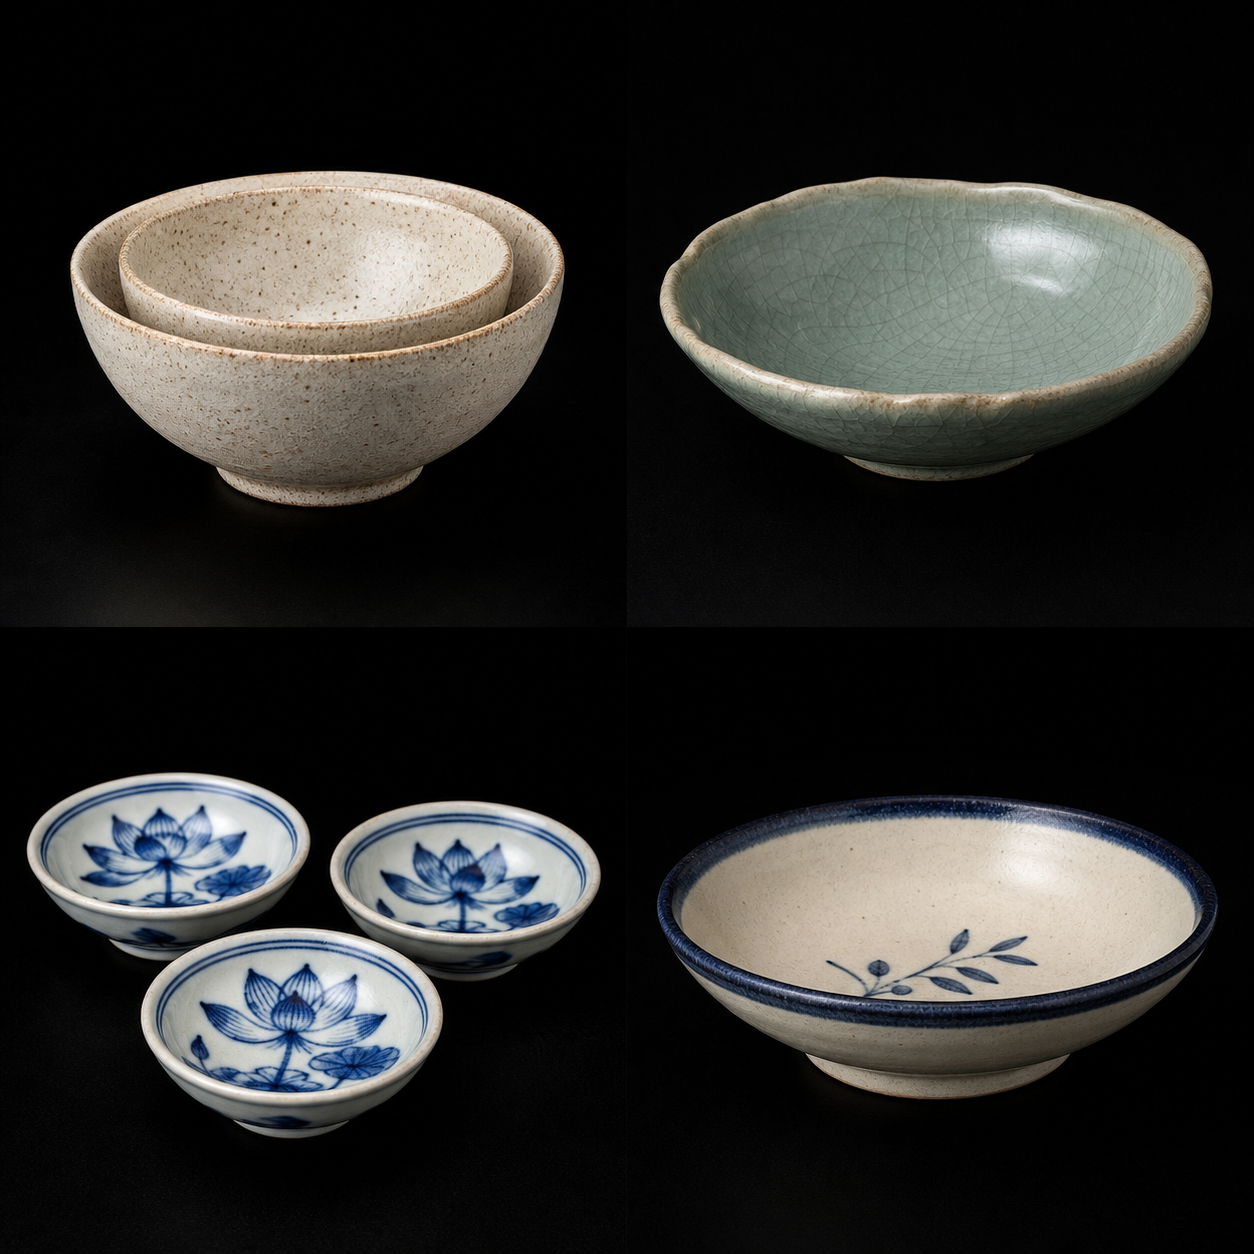
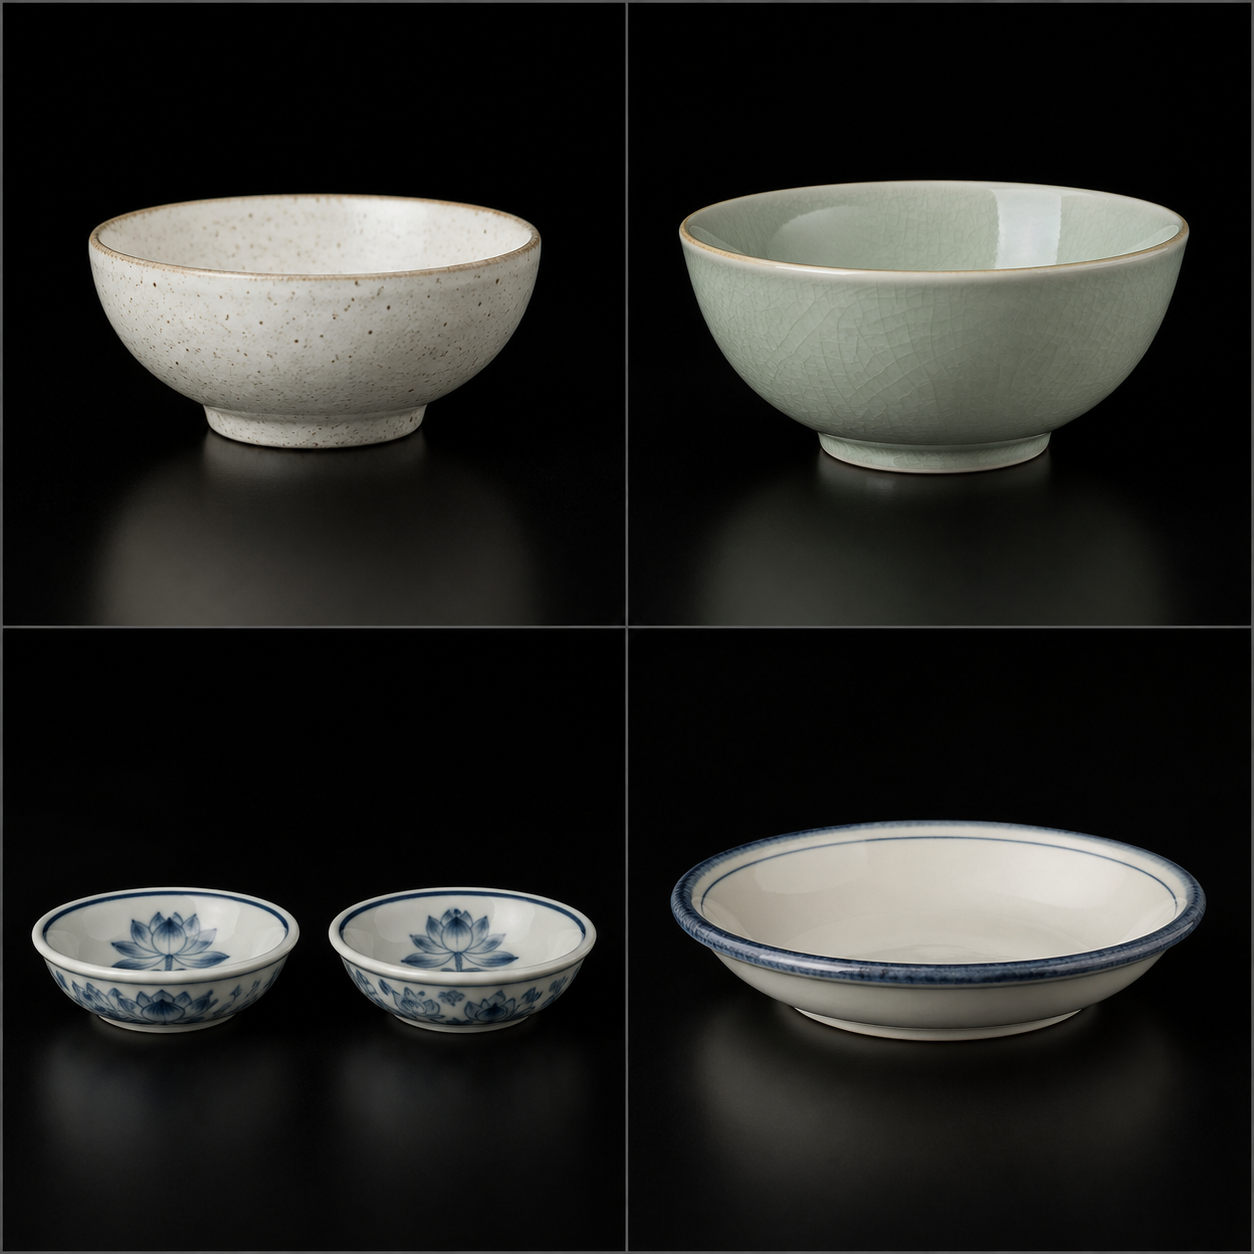
Refine catalog grid and ceramic renders

diff --git a/app/globals.css b/app/globals.css
@@ -1281,14 +1281,13 @@ button { color: inherit; }
 .discovery-hot-searches button:hover, .discovery-hot-searches button.active { color: var(--color-surface-cream); }
 .discovery-hot-searches button.active::after { content: ""; position: absolute; inset: auto 0 5px; height: 2px; background: var(--color-surface-cream); }
 .discovery-section { max-width: none; padding: 140px 4px 140px; }
-.discovery-section .visual-wall { display: grid; grid-template-columns: repeat(4, minmax(0, 1fr)); grid-auto-flow: dense; grid-auto-rows: clamp(156px, 17vw, 260px); gap: 5px; columns: unset; }
+.discovery-section .visual-wall { --wall-gap: 5px; --wall-columns: 4; display: grid; grid-template-columns: repeat(var(--wall-columns), minmax(0, 1fr)); grid-auto-flow: dense; grid-auto-rows: clamp(180px, calc((100vw - 8px - (var(--wall-gap) * (var(--wall-columns) - 1))) / var(--wall-columns)), 420px); gap: var(--wall-gap); columns: unset; }
 .discovery-section .visual-wall .product-card { min-width: 0; height: 100%; margin: 0; content-visibility: visible; contain-intrinsic-size: auto; }
-.visual-wall .product-card--pattern-0, .visual-wall .product-card--pattern-3, .visual-wall .product-card--pattern-5 { grid-row: span 2; }
-.visual-wall .product-card--pattern-7 { grid-row: span 2; }
+.visual-wall .product-card--pattern-0, .visual-wall .product-card--pattern-1, .visual-wall .product-card--pattern-2, .visual-wall .product-card--pattern-3, .visual-wall .product-card--pattern-4, .visual-wall .product-card--pattern-5, .visual-wall .product-card--pattern-6, .visual-wall .product-card--pattern-7 { grid-column: span 1; grid-row: span 1; }
 .discovery-section .visual-wall .product-card-link { width: 100%; height: 100%; display: block; padding: 0; overflow: hidden; color: inherit; border: 0; border-radius: 2px; background: var(--color-off-black); cursor: pointer; text-align: left; }
 .discovery-section .visual-wall .product-visual { width: 100%; height: 100%; aspect-ratio: auto; }
 .discovery-section .visual-wall .product-card-overlay { padding: 52px 22px 20px; }
-.collection-card { min-width: 0; height: 100%; grid-column: span 2; }
+.collection-card { min-width: 0; height: 100%; grid-column: span 2; grid-row: span 2; }
 .collection-card > button { position: relative; width: 100%; height: 100%; display: block; overflow: hidden; padding: 0; color: var(--color-surface-cream); border: 0; border-radius: 2px; background: var(--color-off-black); cursor: pointer; text-align: left; }
 .collection-card img { object-fit: cover; transition: transform 650ms cubic-bezier(.22,.8,.2,1), filter 300ms ease; }
 .collection-card-shade { position: absolute; inset: 0; background: linear-gradient(90deg, rgba(8,9,8,.88) 0%, rgba(8,9,8,.24) 55%, rgba(8,9,8,.08) 100%); transition: background 300ms ease; }
@@ -1300,14 +1299,15 @@ button { color: inherit; }
 .collection-card > button:hover .collection-card-shade, .collection-card > button:focus-visible .collection-card-shade { background: linear-gradient(90deg, rgba(8,9,8,.8) 0%, rgba(8,9,8,.14) 58%, transparent 100%); }
 
 .product-focus-layer { position: fixed; z-index: 90; inset: 0; }
-.product-focus-backdrop { position: absolute; inset: 0; width: 100%; border: 0; background: rgba(0,0,0,.78); opacity: 0; transition: opacity 520ms ease; }
+.product-focus-backdrop { position: absolute; inset: 0; width: 100%; border: 0; background: rgba(0,0,0,.78); opacity: 0; transition: opacity 420ms ease; backdrop-filter: blur(0); }
 .product-focus-layer.is-expanded .product-focus-backdrop { opacity: 1; }
-.product-focus-shell { --focus-x: 0px; --focus-y: 0px; --focus-scale-x: .3; --focus-scale-y: .3; position: fixed; inset: 0; width: 100vw; height: 100dvh; overflow-x: hidden; overflow-y: auto; color: var(--color-surface-cream); background: var(--color-just-black); border-radius: 10px; transform: translate3d(var(--focus-x), var(--focus-y), 0) scale(var(--focus-scale-x), var(--focus-scale-y)); transform-origin: 0 0; transition: transform 560ms cubic-bezier(.22,1,.36,1), border-radius 420ms ease; will-change: transform; }
+.product-focus-shell { --focus-x: 0px; --focus-y: 0px; --focus-scale-x: .3; --focus-scale-y: .3; position: fixed; inset: 0; width: 100vw; height: 100dvh; overflow-x: hidden; overflow-y: auto; overscroll-behavior: contain; color: var(--color-surface-cream); background: var(--color-just-black); border-radius: 10px; transform: translate3d(var(--focus-x), var(--focus-y), 0) scale(var(--focus-scale-x), var(--focus-scale-y)); transform-origin: 0 0; transition: transform 460ms cubic-bezier(.16,1,.3,1), border-radius 360ms ease, opacity 220ms ease; will-change: transform; }
 .product-focus-layer.is-expanded .product-focus-shell { border-radius: 0; transform: translate3d(0,0,0) scale(1); }
 .product-focus-close { position: fixed; z-index: 3; top: 20px; right: 20px; width: 46px; height: 46px; display: grid; place-items: center; color: var(--color-surface-cream); border: 1px solid rgba(255,252,225,.35); border-radius: 50%; background: rgba(14,16,15,.68); cursor: pointer; opacity: 0; transform: scale(.8); transition: opacity 220ms ease 300ms, transform 220ms ease 300ms; backdrop-filter: blur(14px); }
 .product-focus-layer.is-expanded .product-focus-close { opacity: 1; transform: scale(1); }
-.product-focus-visual { width: min(627px, calc(100vw - 96px)); height: auto; min-height: 0; aspect-ratio: 1; margin: clamp(34px, 6vh, 76px) auto; background-size: 200% 200%; background-repeat: no-repeat; }
-.product-focus-content { max-width: 1380px; margin: 0 auto; padding: 58px 42px 112px; opacity: 0; transform: translateY(24px); transition: opacity 300ms ease 250ms, transform 420ms cubic-bezier(.22,1,.36,1) 250ms; }
+.product-focus-visual { width: min(627px, calc(100vw - 96px)); height: auto; min-height: 0; aspect-ratio: 1; margin: clamp(34px, 6vh, 76px) auto; background-size: 200% 200%; background-repeat: no-repeat; opacity: .96; transform: scale(.985); transition: opacity 360ms ease 120ms, transform 520ms cubic-bezier(.16,1,.3,1) 80ms; }
+.product-focus-layer.is-expanded .product-focus-visual { opacity: 1; transform: scale(1); }
+.product-focus-content { max-width: 1380px; margin: 0 auto; padding: 58px 42px 112px; opacity: 0; transform: translateY(18px); transition: opacity 260ms ease 190ms, transform 360ms cubic-bezier(.16,1,.3,1) 190ms; }
 .product-focus-layer.is-expanded .product-focus-content { opacity: 1; transform: translateY(0); }
 .product-focus-heading { display: grid; grid-template-columns: minmax(0, 1fr) auto; gap: 48px; padding-bottom: 52px; border-bottom: var(--hairline); }
 .product-focus-heading a { width: max-content; display: flex; align-items: center; gap: 6px; margin-bottom: 18px; color: var(--color-light-green); font-size: 14px; }
@@ -1343,7 +1343,7 @@ button { color: inherit; }
   .discovery-search-header { grid-template-rows: 48px 1fr; gap: 5px; }
   .discovery-hot-searches { gap: 20px; padding: 0 8px; }
   .discovery-section { padding-top: 132px; }
-  .discovery-section .visual-wall { grid-template-columns: repeat(3, minmax(0, 1fr)); grid-auto-rows: clamp(150px, 28vw, 240px); }
+  .discovery-section .visual-wall { --wall-columns: 3; grid-template-columns: repeat(var(--wall-columns), minmax(0, 1fr)); grid-auto-rows: clamp(154px, calc((100vw - 20px - (var(--wall-gap) * (var(--wall-columns) - 1))) / var(--wall-columns)), 280px); }
   .product-focus-visual { width: min(627px, calc(100vw - 64px)); height: auto; min-height: 0; }
   .product-focus-heading { grid-template-columns: 1fr; gap: 12px; }
   .product-focus-price { align-items: flex-start; padding-top: 0; }
@@ -1359,8 +1359,8 @@ button { color: inherit; }
   .discovery-hot-searches { gap: 18px; padding: 0 6px; }
   .discovery-hot-searches button { font-size: 13px; }
   .discovery-section { padding: 128px 3px 112px; }
-  .discovery-section .visual-wall { grid-template-columns: repeat(2, minmax(0, 1fr)); grid-auto-rows: 142px; gap: 3px; }
-  .visual-wall .product-card--pattern-7 { grid-column: span 1; }
+  .discovery-section .visual-wall { --wall-gap: 3px; --wall-columns: 2; grid-template-columns: repeat(var(--wall-columns), minmax(0, 1fr)); grid-auto-rows: calc((100vw - 6px - var(--wall-gap)) / 2); gap: var(--wall-gap); }
+  .visual-wall .product-card--pattern-7 { grid-column: span 1; grid-row: span 1; }
   .collection-card-copy { padding: 16px; }
   .collection-card-copy strong { font-size: 25px; }
   .collection-card-copy > span { margin-top: 9px; font-size: 12px; }

diff --git a/src/features/discovery/discovery-experience.tsx b/src/features/discovery/discovery-experience.tsx
@@ -140,7 +140,7 @@ function ProductFocusView({ focus, onClose }: { focus: ProductFocus; onClose: ()
   const scaleY = focus.origin.height / window.innerHeight;
   const close = useCallback(() => {
     setExpanded(false);
-    window.setTimeout(onClose, 560);
+    window.setTimeout(onClose, 460);
   }, [onClose]);
 
   useEffect(() => {
